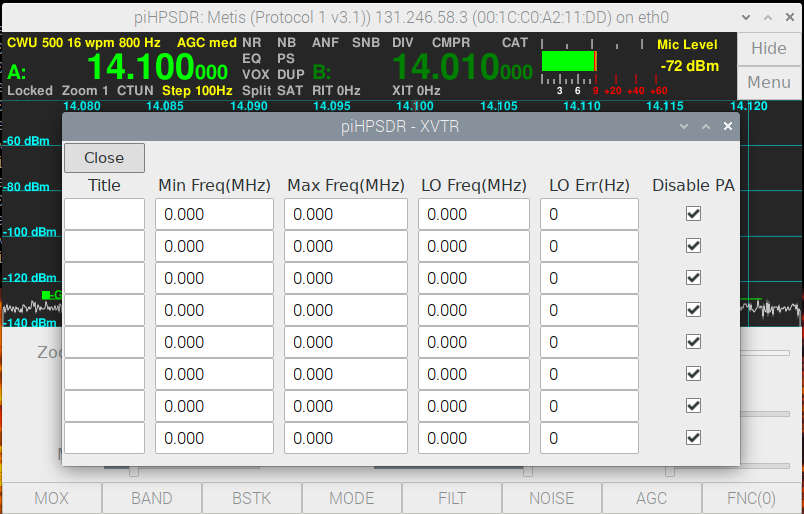
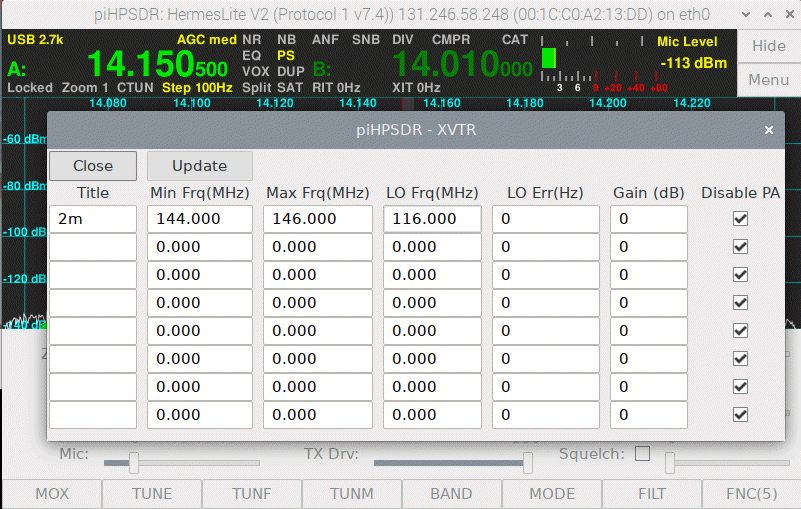
Small update of the XVTR menu, updated the chapter in the manual.

diff --git a/release/LatexManual/piHPSDR-Manual.tex b/release/LatexManual/piHPSDR-Manual.tex
@@ -25,7 +25,6 @@ Christoph van W\"ullen, DL1YCF \\
 email: \texttt{dl1ycf@darc.de}
 }
 
-%
 \maketitle
 \textbf{Copyright Notice:}
 
@@ -1421,16 +1420,6 @@ For RX-only radios, the TX ALC setting will not be shown in the menu.
 %%%%%%%%%%%%%%%%%%%%%%%%%%%%%%%%%%%%%%%%%%%%%%%%%%%%%%%%%%%%%%%%%%%%%%%%%%%%%%%%%%%%%%%%%%%%%%%%%%%%%%%%%%%%
 \section{The \texttt{XVTR} (Transverter) Menu}
 
-The \bltt{XVTR} menu lets you define additional bands
-that you can work on using transverters. The bands
-should normally be beyond the standard frequency range of
-the radio, otherwise the calculation of a band from
-a given frequency will sometimes not work. To give an example,
-suppose you have a transverter which you can drive with frequencies
-between 28 and 30 MHz and which will convert them to the frequency
-range 144 to 146 MHz, and which will receive frequencies in that
-range and mix them down to the 10m band. The data you have to enter
-in the \bltt{XVTR} menu (use the first free entry) are as follows:
 \begin{figure}[ht]
 \center
 \includegraphics[width=12cm]{XVTRMenu.png}
@@ -1438,28 +1427,56 @@ in the \bltt{XVTR} menu (use the first free entry) are as follows:
 \label{fig:XVTRMenu}
 \end{figure}
 
-
+The \bltt{XVTR} menu lets you define additional bands
+that you can work on using transverters. The bands
+should normally be beyond the standard frequency range of
+the radio, otherwise the calculation of a band from
+a given frequency will sometimes not work. 
+Fig. \ref{fig:XVTRMenu} shows the \bltt{XVTR} menu with data
+for an example for a transverter which you can drive with frequencies
+between 28 and 30 MHz and which will convert them to the frequency
+range 144 to 146 MHz, and which will receive frequencies in that
+range and mix them down to the 10m band. The data you have to enter
+in the \bltt{XVTR} menu (use the first free entry) are as follows:
 
 \rett{Title} In this column, enter a name for your band. You can choose
 whatever name you want, this is the one that will be displayed in the
 \bltt{Band} menu. In the present example, use "144" or "144 MHz" or "2m".
+If the title string is empty, all transverter data for this band will
+be cleared.
 
-\rett{Min Freq} Enter the lowest frequency of the transverter band in MHz,
+\rett{Min Frq} Enter the lowest frequency of the transverter band in MHz,
 in the present case, 144.
 
-\rett{Max Freq} Enter the highest frequency of the transverter band in MHz,
+\rett{Max Frq} Enter the highest frequency of the transverter band in MHz,
 in the present case, 146.
 
-\rett{LO Freq} This is the frequency offset (in MHz) between the radio frequency and
+\rett{LO Frq} This is the frequency offset (in MHz) between the radio frequency and
 the operating frequency. In this case, use 116. From this offset, radio frequencies
 between 28 and 30 MHz will be used for operating frequencies between 144 and 146 MHz.
 
 \rett{LO Err} This entry can be used for a fine calibration of the frequency. The value
 (in Hz) is added to the local oscillator (LO) freq in MHz.
 
-\rett{Disable PA} This checkbox indicates that the PA of the radio should be disabled
+\rett{Gain} For each transverter band, the RX gain of the transverter can be specified here.
+If the transverter has a positive gain, the signal will appear too strong in the
+meter and the panadapter, so 
+entering a positive number here will \textit{reduce} the dBm reading in the meter area.
+This setting affects the meter reading, and the RX panadapter and waterfall.
+
+\rett{Disable PA} This checkbox is only present for HPSDR (P1 and P2) radios and
+indicates that the PA of the radio should be disabled
 when using the transverter band. This implies that the radio has some sort of
 low-power output that is used to drive the transverter.
+
+\rett{Update} When entering data in the text fields, it does not become effective
+immediately. The data is stored if you leave the menu, but also if you push the
+\rett{Update} button. After pressing this button, the text fields will be re-generated,
+so if you have typed in, for example, "144" as the minimum frequency, this text field
+will change to "144.000". Consistency checks are performed as well: the minimum and maximum
+frequencies are recalculated from the local oscillator frequency and the frequency range
+of the radio, if something does not fit. It is therefore recommended to push
+\rett{Update} and review the text fields before leaving the \bltt{XVTR} menu.
 
 \begin{figure}[h!]
 \center
@@ -1474,13 +1491,8 @@ The Pluto is
 operated via the SoapySDR interface. For receiving in the 10 GHz band, one uses a so-called
 LNB (low noise block) in the focus of the parabol antenna which converts the 10 GHz signal down
 to about 740 MHz. The setup for defining the "QO100" transverter band is shown in Fig.
-\ref{fig:QO100-XVTR}.
-
-The LO (local oscillator) frequency is always chosen such that it is below the RX frequency,
-and the difference between the RX frequency and the LO frequency is the frequency the radio
-is operating on. The name (here: QO100) can be chosen as one likes, but it cannot be left
-empty. Once the transverter band has been defined, it shows up in the \bltt{BAND} menu
-(see Chapter \ref{sec:bandmenu}), as shown in Fig. \ref{fig:QO100-BandMenu}.
+\ref{fig:QO100-XVTR}. Since the Adalm Pluto is operated via the SoapySDR interface, there are no check boxes
+for disabling the PA.
 
 \begin{figure}[ht]
 \center
@@ -1488,6 +1500,12 @@ empty. Once the transverter band has been defined, it shows up in the \bltt{BAND
 \caption{The \bltt{Band} menu after defining the QO100 band.}
 \label{fig:QO100-BandMenu}
 \end{figure}
+
+The LO (local oscillator) frequency is always chosen such that it is below the RX frequency,
+and the difference between the RX frequency and the LO frequency is the frequency the radio
+is operating on. The name (here: QO100) can be chosen as one likes, but it cannot be left
+empty. Once the transverter band has been defined, it shows up in the \bltt{BAND} menu
+(see Chapter \ref{sec:bandmenu}), as shown in Fig. \ref{fig:QO100-BandMenu}.
 
 To make QO-100 Operation easy, the working frequencies, the CTUN mode etc. should be
 stored in the first bandstack entry of the QO100 and the 13 cm band. To this end,
@@ -1500,18 +1518,22 @@ swap the VFOs again. SAT mode will now ensure the 10.489 GHz Receive
  the bands. The complicated swapping was necessary since band stack entries will
  only be stored from VFO-A.
 
-Fig. \ref{fig:QO100-Waterfall} gives an impression of how this actually works. Note that the
-default setup
-is working Split, Duplex and SAT. Split mode implies that VFO-B is used for transmitting.
-Duplex mode implies that the receiver continues to work while transmitting so you can watch
-and hear your own signal.
-The TX spectrum scope then appears during transmitting in a small separate window.
 \begin{figure}[ht]
 \center
 \includegraphics[width=12cm]{QO100-Waterfall.png}
 \caption{Working QO100 with piHPSDR and the Pluto.}
 \label{fig:QO100-Waterfall}
 \end{figure}
+
+Fig. \ref{fig:QO100-Waterfall} (a contribution from a ham using the Adalm Pluto for QO-100
+operation) gives an impression of how this actually works. 
+Note that the
+default setup
+is working Split, Duplex and SAT. Split mode implies that VFO-B is used for transmitting.
+Duplex mode implies that the receiver continues to work while transmitting so you can watch
+and hear your own signal.
+The TX spectrum scope then appears during transmitting in a small separate window.
+
 %%%%%%%%%%%%%%%%%%%%%%%%%%%%%%%%%%%%%%%%%%%%%%%%%%%%%%%%%%%%%%%%%%%%%%%%%%%%%%%%%%%%%%%%%%%%%%%%%%%%%%%%%%%%
 %%%%%%%%%%%%%%%%%%%%%%%%%%%%%%%%%%%%%%%%%%%%%%%%%%%%%%%%%%%%%%%%%%%%%%%%%%%%%%%%%%%%%%%%%%%%%%%%%%%%%%%%%%%%
 \chapter{The Main Menu: VFO-related menus}

diff --git a/src/xvtr_menu.c b/src/xvtr_menu.c
@@ -43,6 +43,7 @@ static GtkWidget *disable_pa[BANDS + XVTRS];
 
 static void save_xvtr () {
   const char *txt;
+  char f[16];
 
   for (int i = BANDS; i < BANDS + XVTRS; i++) {
     BAND *xvtr = band_get_band(i);
@@ -61,7 +62,9 @@ static void save_xvtr () {
       xvtr->errorLO = atoll(txt);
       txt = gtk_entry_get_text(GTK_ENTRY(gain[i]));
       xvtr->gain = atoi(txt);
-      xvtr->disablePA = gtk_toggle_button_get_active(GTK_TOGGLE_BUTTON(disable_pa[i]));
+      if (protocol == ORIGINAL_PROTOCOL || protocol == NEW_PROTOCOL) {
+        xvtr->disablePA = gtk_toggle_button_get_active(GTK_TOGGLE_BUTTON(disable_pa[i]));
+      }
 
       //
       // Patch up the frequencies:
@@ -84,11 +87,17 @@ static void save_xvtr () {
         //t_print("XVTR band %s MaxFrequency changed to %lld\n", t, xvtr->frequencyMax);
       }
 
+      //
+      // Initialize all bandstack entries where the frequency is not inside the
+      // transverter band
+      //
       for (int b = 0; b < bandstack->entries; b++) {
         BANDSTACK_ENTRY *entry = &bandstack->entry[b];
-        entry->frequency = xvtr->frequencyMin + ((xvtr->frequencyMax - xvtr->frequencyMin) / 2);
-        entry->mode = modeUSB;
-        entry->filter = filterF6;
+        if (entry->frequency < xvtr->frequencyMin || entry->frequency > xvtr->frequencyMax) {
+          entry->frequency = xvtr->frequencyMin + ((xvtr->frequencyMax - xvtr->frequencyMin) / 2);
+          entry->mode = modeUSB;
+          entry->filter = filterF6;
+        }
       }
     } else {
       xvtr->frequencyMin = 0;
@@ -97,6 +106,23 @@ static void save_xvtr () {
       xvtr->errorLO = 0;
       xvtr->disablePA = 1;
     }
+    //
+    // Update all the text fields
+    //
+    gtk_entry_set_text(GTK_ENTRY(title[i]), xvtr->title);
+    snprintf(f, 16, "%5.3f", (double)xvtr->frequencyMin / 1000000.0);
+    gtk_entry_set_text(GTK_ENTRY(min_frequency[i]), f);
+    snprintf(f, 16, "%5.3f", (double)xvtr->frequencyMax / 1000000.0);
+    gtk_entry_set_text(GTK_ENTRY(max_frequency[i]), f);
+    snprintf(f, 16, "%5.3f", (double)xvtr->frequencyLO / 1000000.0);
+    gtk_entry_set_text(GTK_ENTRY(lo_frequency[i]), f);
+    snprintf(f, 16, "%lld", xvtr->errorLO);
+    gtk_entry_set_text(GTK_ENTRY(lo_error[i]), f);
+    snprintf(f, 16, "%d", xvtr->gain);
+    gtk_entry_set_text(GTK_ENTRY(gain[i]), f);
+    if (protocol == ORIGINAL_PROTOCOL || protocol == NEW_PROTOCOL) {
+      gtk_toggle_button_set_active(GTK_TOGGLE_BUTTON(disable_pa[i]), xvtr->disablePA);
+    } 
   }
 
   vfo_xvtr_changed();
@@ -119,8 +145,13 @@ static void cleanup() {
   }
 }
 
-static gboolean close_cb () {
+static gboolean close_cb() {
   cleanup();
+  return TRUE;
+}
+
+static gboolean update_cb() {
+  save_xvtr();
   return TRUE;
 }
 
@@ -144,6 +175,9 @@ void xvtr_menu(GtkWidget *parent) {
   gtk_widget_set_name(close_b, "close_button");
   g_signal_connect (close_b, "button-press-event", G_CALLBACK(close_cb), NULL);
   gtk_grid_attach(GTK_GRID(grid), close_b, 0, 0, 1, 1);
+  GtkWidget *update_b = gtk_button_new_with_label("Update");
+  g_signal_connect (update_b, "button-press-event", G_CALLBACK(update_cb), NULL);
+  gtk_grid_attach(GTK_GRID(grid), update_b, 1, 0, 1, 1);
   GtkWidget *label = gtk_label_new("Title");
   gtk_widget_set_name(label, "boldlabel");
   gtk_grid_attach(GTK_GRID(grid), label, 0, 1, 1, 1);
@@ -162,9 +196,11 @@ void xvtr_menu(GtkWidget *parent) {
   label = gtk_label_new("Gain (dB)");
   gtk_widget_set_name(label, "boldlabel");
   gtk_grid_attach(GTK_GRID(grid), label, 5, 1, 1, 1);
-  label = gtk_label_new("Disable PA");
-  gtk_widget_set_name(label, "boldlabel");
-  gtk_grid_attach(GTK_GRID(grid), label, 6, 1, 1, 1);
+  if (protocol == ORIGINAL_PROTOCOL || protocol == NEW_PROTOCOL) {
+    label = gtk_label_new("Disable PA");
+    gtk_widget_set_name(label, "boldlabel");
+    gtk_grid_attach(GTK_GRID(grid), label, 6, 1, 1, 1);
+  }
 
   //
   // Note  no signal connect for the text fields:
@@ -199,15 +235,17 @@ void xvtr_menu(GtkWidget *parent) {
     gtk_entry_set_text(GTK_ENTRY(lo_error[i]), f);
     gtk_grid_attach(GTK_GRID(grid), lo_error[i], 4, i + 2, 1, 1);
     gain[i] = gtk_entry_new();
-    disable_pa[i] = gtk_check_button_new();
     gtk_entry_set_width_chars(GTK_ENTRY(gain[i]), 3);
     snprintf(f, 16, "%d", xvtr->gain);
     gtk_entry_set_text(GTK_ENTRY(gain[i]), f);
     gtk_grid_attach(GTK_GRID(grid), gain[i], 5, i + 2, 1, 1);
-    gtk_toggle_button_set_active(GTK_TOGGLE_BUTTON(disable_pa[i]), xvtr->disablePA);
-    gtk_grid_attach(GTK_GRID(grid), disable_pa[i], 6, i + 2, 1, 1);
-    gtk_widget_set_halign(disable_pa[i], GTK_ALIGN_CENTER);
-    g_signal_connect(disable_pa[i], "toggled", G_CALLBACK(pa_disable_cb), GINT_TO_POINTER(i));
+    if (protocol == ORIGINAL_PROTOCOL || protocol == NEW_PROTOCOL) {
+      disable_pa[i] = gtk_check_button_new();
+      gtk_toggle_button_set_active(GTK_TOGGLE_BUTTON(disable_pa[i]), xvtr->disablePA);
+      gtk_grid_attach(GTK_GRID(grid), disable_pa[i], 6, i + 2, 1, 1);
+      gtk_widget_set_halign(disable_pa[i], GTK_ALIGN_CENTER);
+      g_signal_connect(disable_pa[i], "toggled", G_CALLBACK(pa_disable_cb), GINT_TO_POINTER(i));
+    }
   }
 
   gtk_container_add(GTK_CONTAINER(content), grid);
